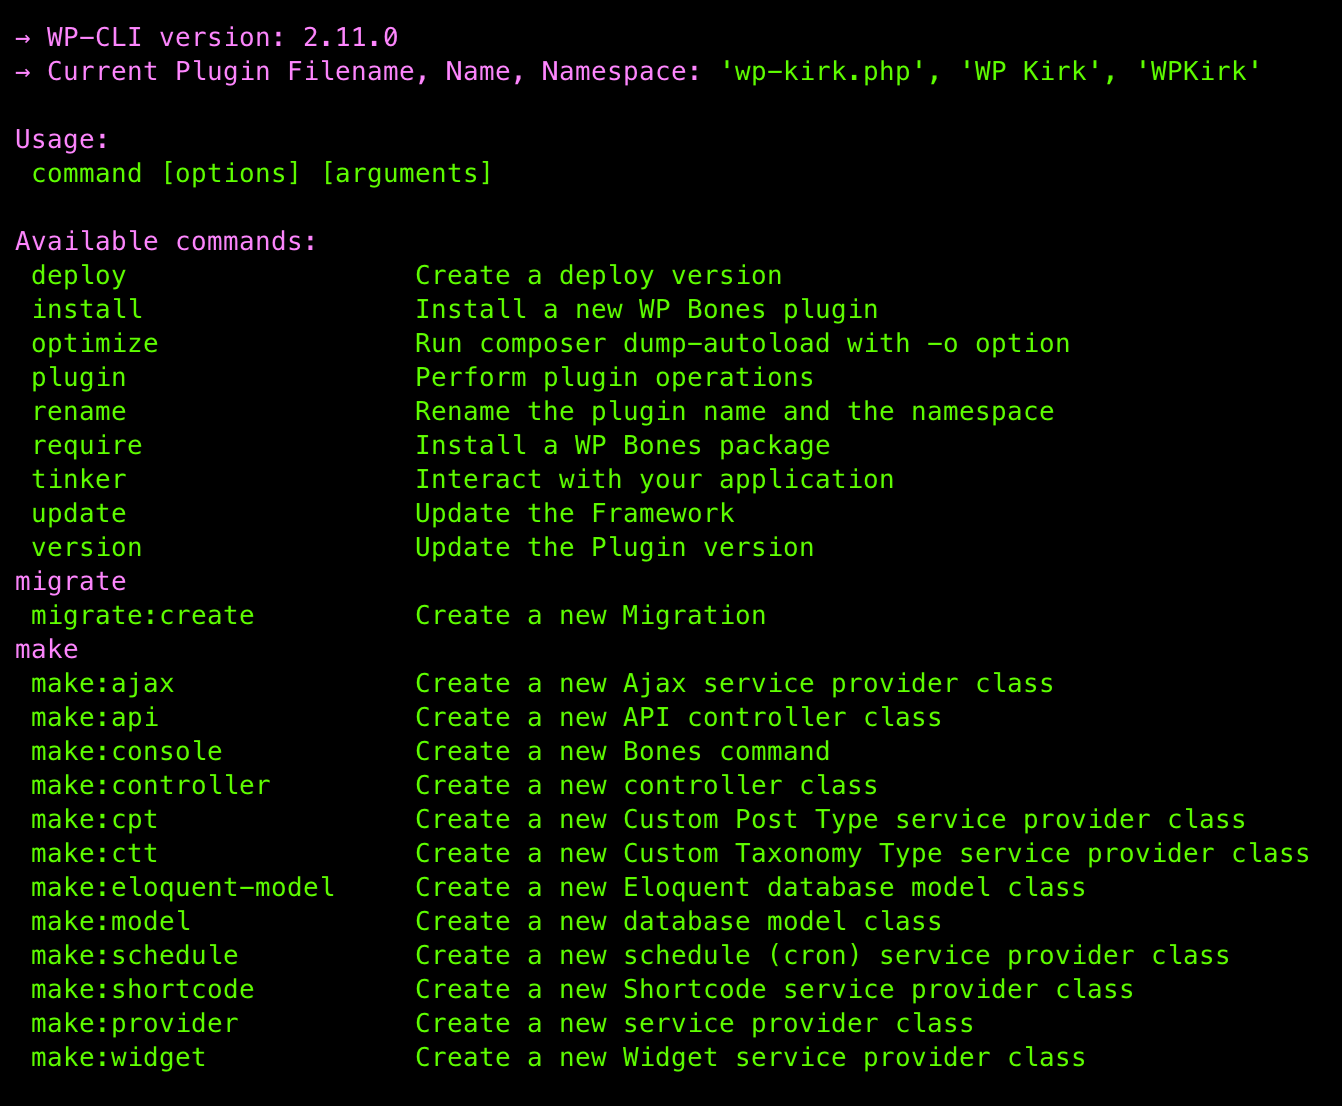
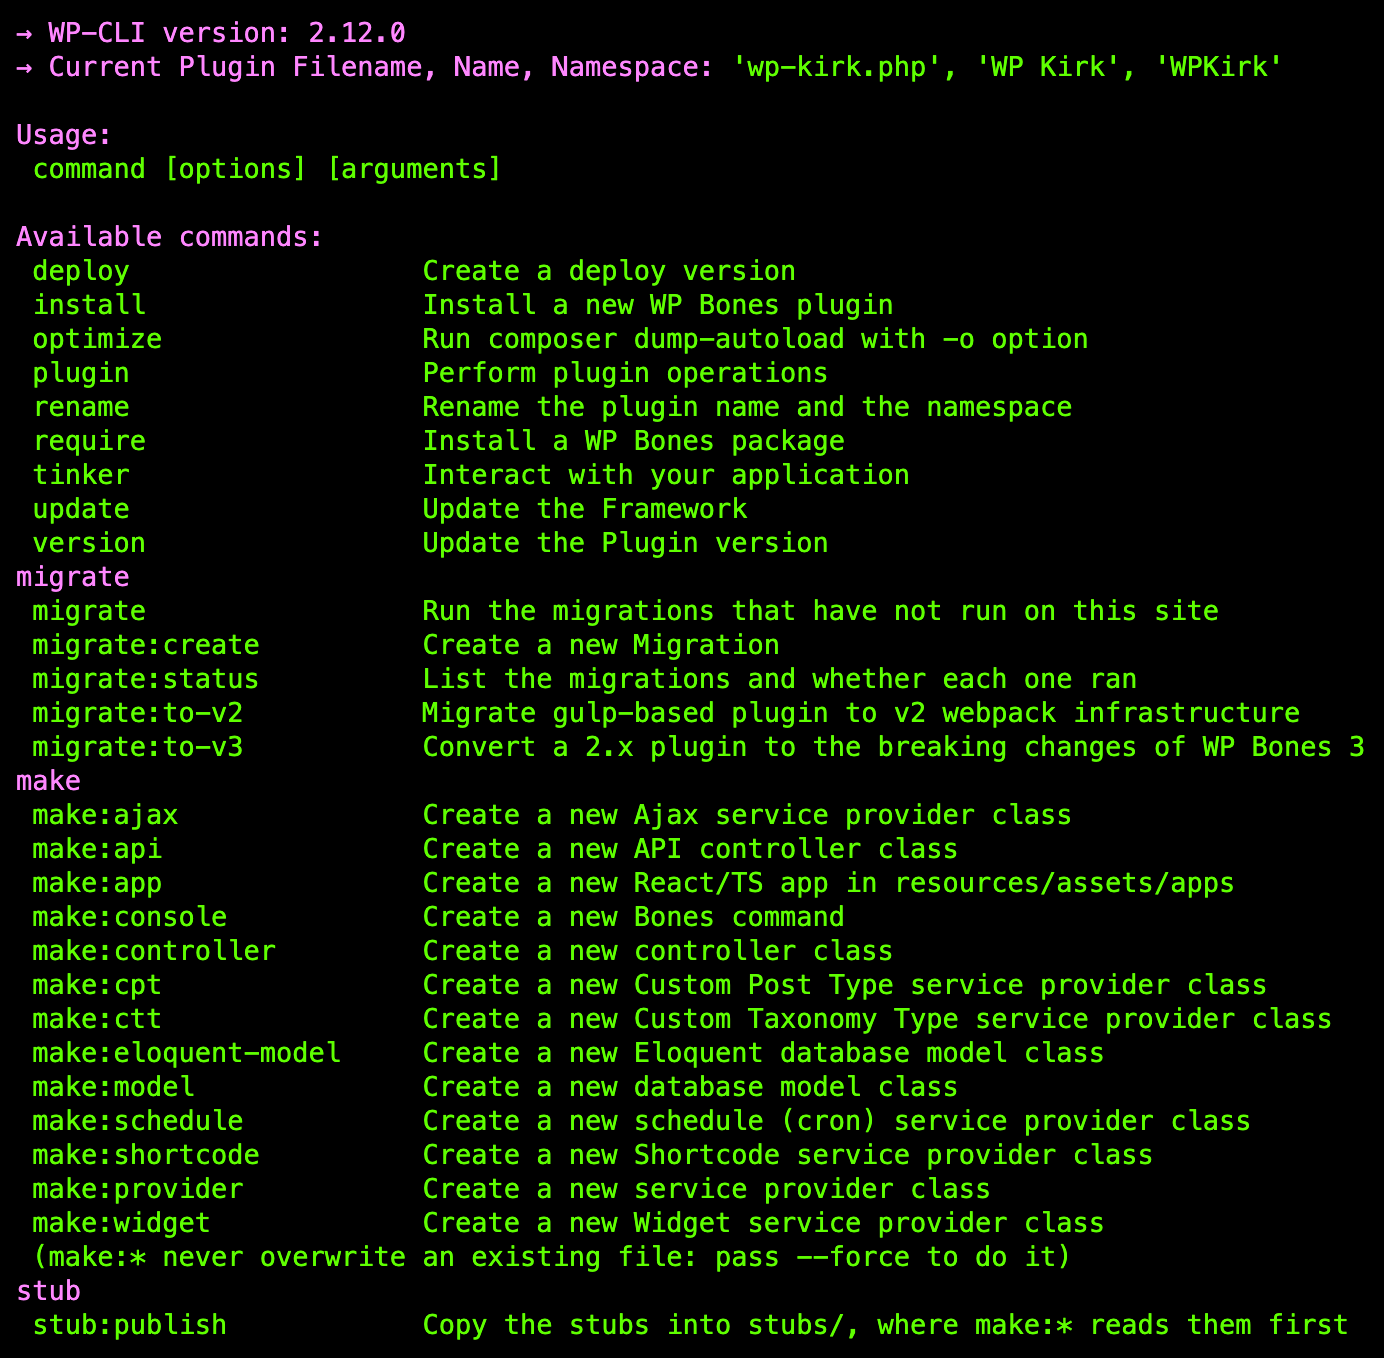
📝 docs(console): customizing the stubs, stub:publish, and the help as 3.1.0 prints it
- bones-console: a section on the plugin's own stubs/ (#133): what make:* reads first,
  php bones stub:publish, --force, what deploy leaves out, and every stub with the command
  that writes it and its placeholders, read from src/Console/bin/bones at v3.1.0.
- The home page's console lists stub:publish under its own group, as the CLI does.
- php-bones-commands.png retaken from php bones 3.1.0 in a scratch plugin: the old one
  stopped at migrate:create and lacked make:app, migrate, migrate:status, migrate:to-v2
  and migrate:to-v3. Rendered with the CLI's own 256-colour codes, through ImageOptim.

Changed region(s): [[0.0, 0.0, 0.9776, 0.9837], [0.7027, 0.0307, 0.9165, 0.0922]]

diff --git a/components/Home/Console.tsx b/components/Home/Console.tsx
@@ -8,7 +8,7 @@ import classes from './Console.module.css';
 /**
  * `php bones` as it answers with no arguments: the command list, word for
  * word, from the CLI's own help (WPBones/src/Console/bin/bones, lines
- * 1701-1731, at v3.0.0). Grouped as the CLI groups them.
+ * 1838-1870, at v3.1.0). Grouped as the CLI groups them.
  */
 const GROUPS: { name: string | null; commands: [string, string][] }[] = [
   {
@@ -52,6 +52,10 @@ const GROUPS: { name: string | null; commands: [string, string][] }[] = [
       ['make:provider', 'Create a new service provider class'],
       ['make:widget', 'Create a new Widget service provider class'],
     ],
+  },
+  {
+    name: 'stub',
+    commands: [['stub:publish', 'Copy the stubs into stubs/, where make:* reads them first']],
   },
 ];
 
